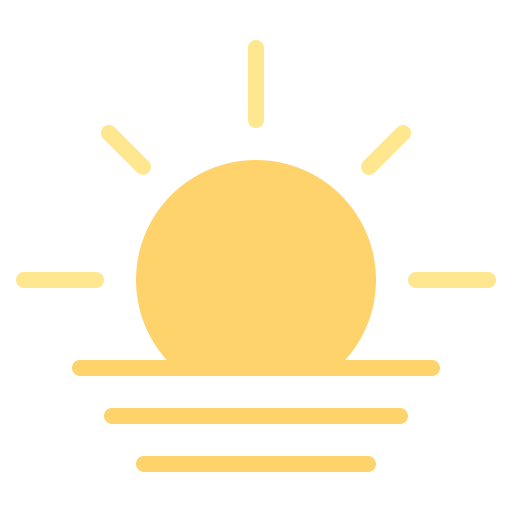
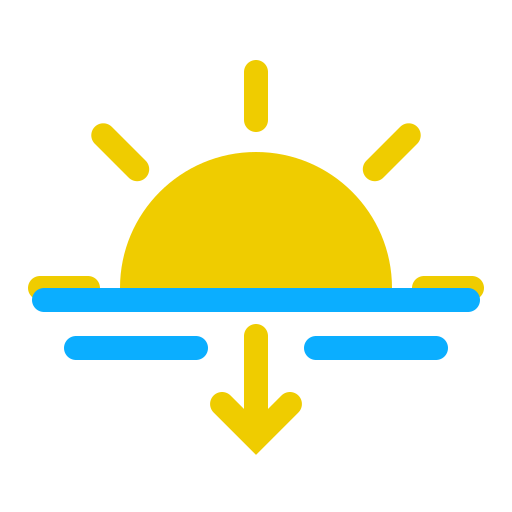
Acertando front info weather

diff --git a/App.js b/App.js
@@ -8,6 +8,11 @@ import {
   Image,
 } from "react-native";
 import sun from "./img/sun.png";
+import wind from "./img/wind.png";
+import sunset from "./img/sunset.png";
+import sunrise from "./img/sunrise.png";
+import rain from "./img/cloudrain.png";
+import wather from "./img/wather.png";
 
 export default function App() {
   const [city, setCity] = useState("");
@@ -116,50 +121,78 @@ export default function App() {
           <Text style={styles.weatherText}>Day {dayAndMonth}</Text>
         )}
       </View>
-      <View style={styles.infos}>
-        <View>
-          <Text>Sunrise</Text>
-          {weatherData && (
-            <Text>{weatherData.forecastData.Sun.Rise.substring(11, 16)}</Text>
-          )}
-        </View>
-        <View>
-          <Text>Sunset</Text>
-          {weatherData && (
-            <Text>{weatherData.forecastData.Sun.Set.substring(11, 16)}</Text>
-          )}
-        </View>
-      </View>
-      <View style={styles.infos}>
-        <View>
-          <Text>Air Quality</Text>
-          {weatherData && (
-            <Text>{weatherData.forecastData.AirAndPollen[0].Category}</Text>
-          )}
-        </View>
-        <View>
-          <Text>Humidity</Text>
-          {weatherData && (
-            <Text>{weatherData.forecastData.Day.RelativeHumidity.Average}</Text>
-          )}
-        </View>
-      </View>
-      <View style={styles.infos}>
-        <View>
-          <Text>Preciptation</Text>
+      <View style={styles.column0}>
+        <View style={styles.column1}>
+          <View style={styles.infoContainer}>
+            <Image source={sunrise} style={styles.littleIcon} />
+            <View>
+              <Text>Sunrise</Text>
+              {weatherData && (
+                <Text>
+                  {weatherData.forecastData.Sun.Rise.substring(11, 16)}
+                </Text>
+              )}
+            </View>
+          </View>
+          <View style={styles.infoContainer}>
+            <Image source={wind} style={styles.littleIcon} />
+            <View>
+              <Text>Air Quality</Text>
+              {weatherData && (
+                <Text>{weatherData.forecastData.AirAndPollen[0].Category}</Text>
+              )}
+            </View>
+          </View>
+          <View style={styles.infoContainer}>
+            <Image source={wather} style={styles.littleIcon} />
+            <View>
+              <Text>Wind Speed</Text>
 
-          {weatherData && (
-            <Text>
-              {weatherData.forecastData.Day.PrecipitationProbability}%
-            </Text>
-          )}
+              {weatherData && (
+                <Text>
+                  {(
+                    weatherData.forecastData.Day.Wind.Speed.Value * 1.60934
+                  ).toFixed(2)}{" "}
+                  km/h
+                </Text>
+              )}
+            </View>
+          </View>
         </View>
-        <View>
-          <Text>Rain</Text>
 
-          {weatherData && (
-            <Text>{weatherData.forecastData.Day.RainProbability}%</Text>
-          )}
+        <View style={styles.column2}>
+          <View style={styles.infoContainer}>
+            <Image source={sunset} style={styles.littleIcon} />
+            <View>
+              <Text>Sunset</Text>
+              {weatherData && (
+                <Text>
+                  {weatherData.forecastData.Sun.Set.substring(11, 16)}
+                </Text>
+              )}
+            </View>
+          </View>
+          <View style={styles.infoContainer}>
+            <Image source={wather} style={styles.littleIcon} />
+            <View>
+              <Text>Humidity</Text>
+              {weatherData && (
+                <Text>
+                  {weatherData.forecastData.Day.RelativeHumidity.Average}%
+                </Text>
+              )}
+            </View>
+          </View>
+          <View style={styles.infoContainer}>
+            <Image source={rain} style={styles.littleIcon} />
+            <View>
+              <Text>Rain</Text>
+
+              {weatherData && (
+                <Text>{weatherData.forecastData.Day.RainProbability}%</Text>
+              )}
+            </View>
+          </View>
         </View>
       </View>
       <Text style={styles.footer}>Developer: Gabriel Pádua</Text>
@@ -195,15 +228,15 @@ const styles = StyleSheet.create({
     fontSize: 25,
   },
   weatherContainer: {
-    marginTop: 50,
+    marginTop: 40,
     alignItems: "center",
   },
   tempText: {
     marginTop: 15,
-    fontSize: 50,
+    fontSize: 45,
   },
   weatherText: {
-    fontSize: 25,
+    fontSize: 20,
   },
   button: {
     marginLeft: 10,
@@ -223,18 +256,28 @@ const styles = StyleSheet.create({
     paddingLeft: 30,
   },
   weatherIcons: {
-    width: 275,
-    height: 275,
+    width: 250,
+    height: 250,
   },
-  infos: {
-    marginTop: 30,
-    justifyContent: "space-around",
+  column0: {
     flexDirection: "row",
+    justifyContent: "space-around",
+    alignItems: "center",
+    marginTop: 40,
+  },
+  infoContainer: {
+    marginBottom: 30,
+    flexDirection: "row",
+    alignItems: "center",
   },
   footer: {
     alignContent: "center",
     justifyContent: "center",
     textAlign: "center",
-    bottom: -30,
+    bottom: 0,
+  },
+  littleIcon: {
+    height: 50,
+    width: 50,
   },
 });
